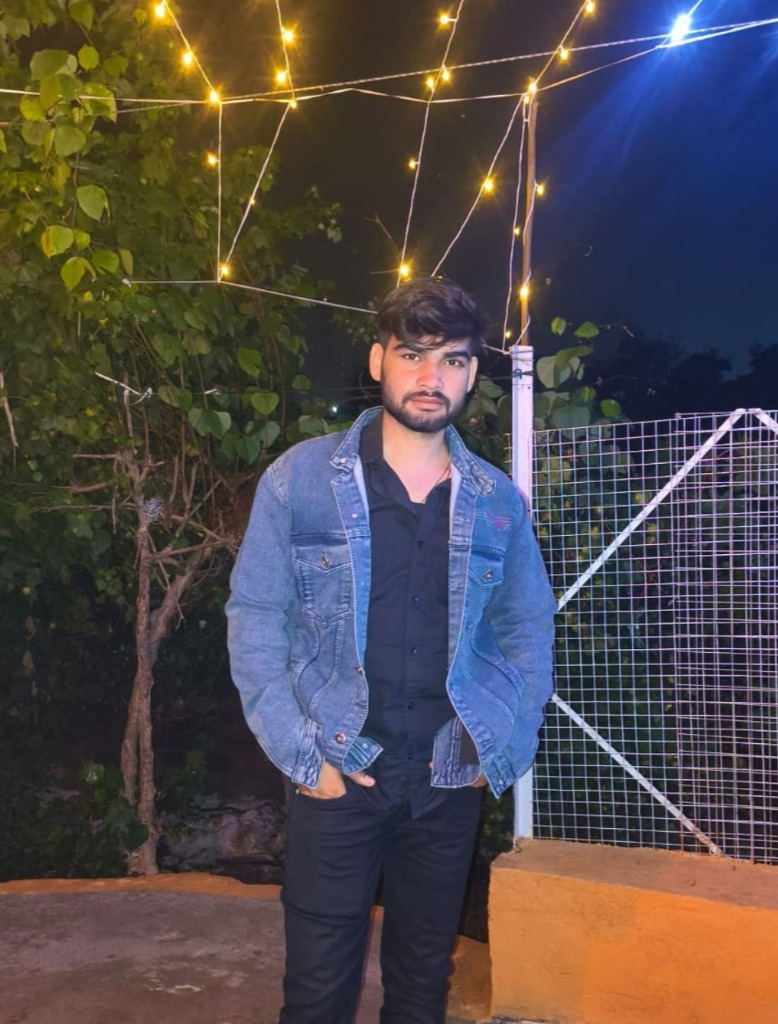
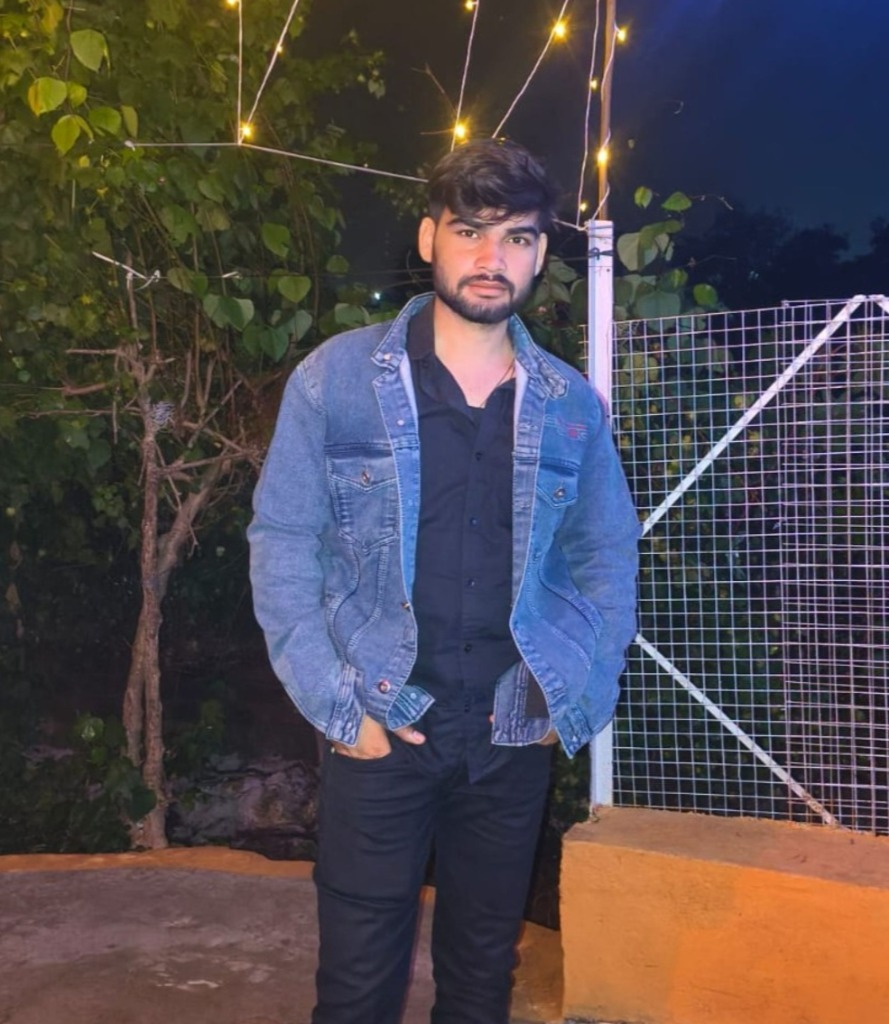
Update Kapil Ahirwar profile photo with optimal face framing

diff --git a/app/about/page.js b/app/about/page.js
@@ -214,7 +214,7 @@ export default function AboutPage() {
                   onError={() => {
                     if (kapilImg !== '/maker.svg') setKapilImg('/maker.svg');
                   }}
-                  className="w-full h-full object-cover object-[50%_35%] transition-transform duration-300 group-hover:scale-105"
+                  className="w-full h-full object-cover object-[50%_20%] transition-transform duration-300 group-hover:scale-105"
                 />
               </div>
             </div>
